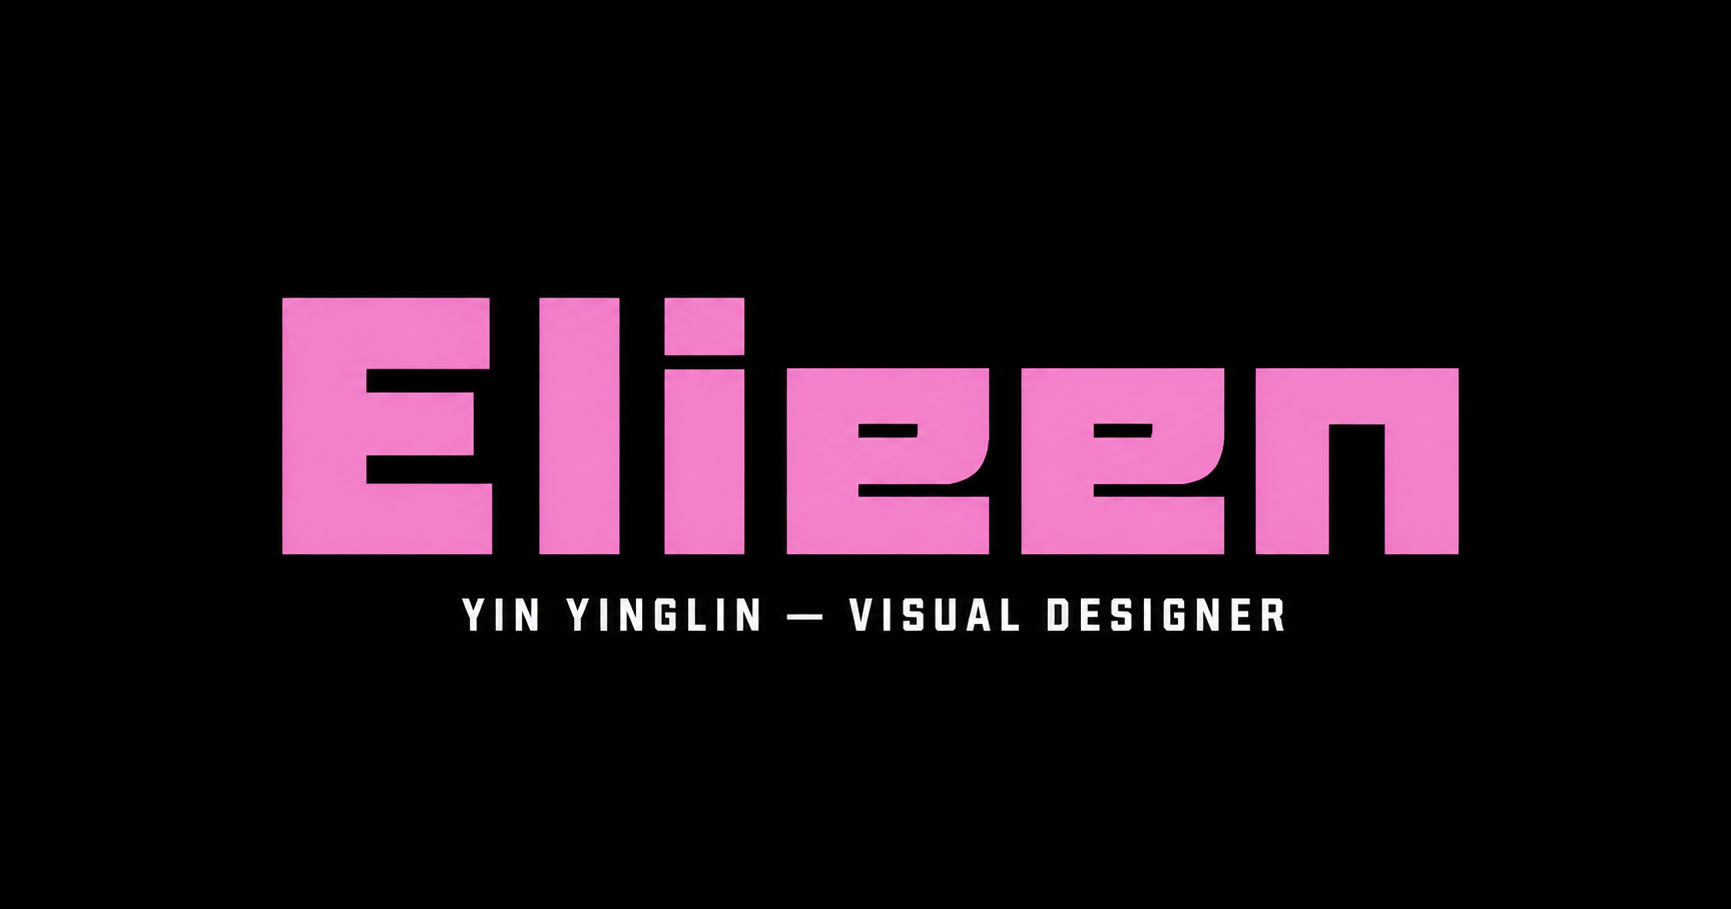
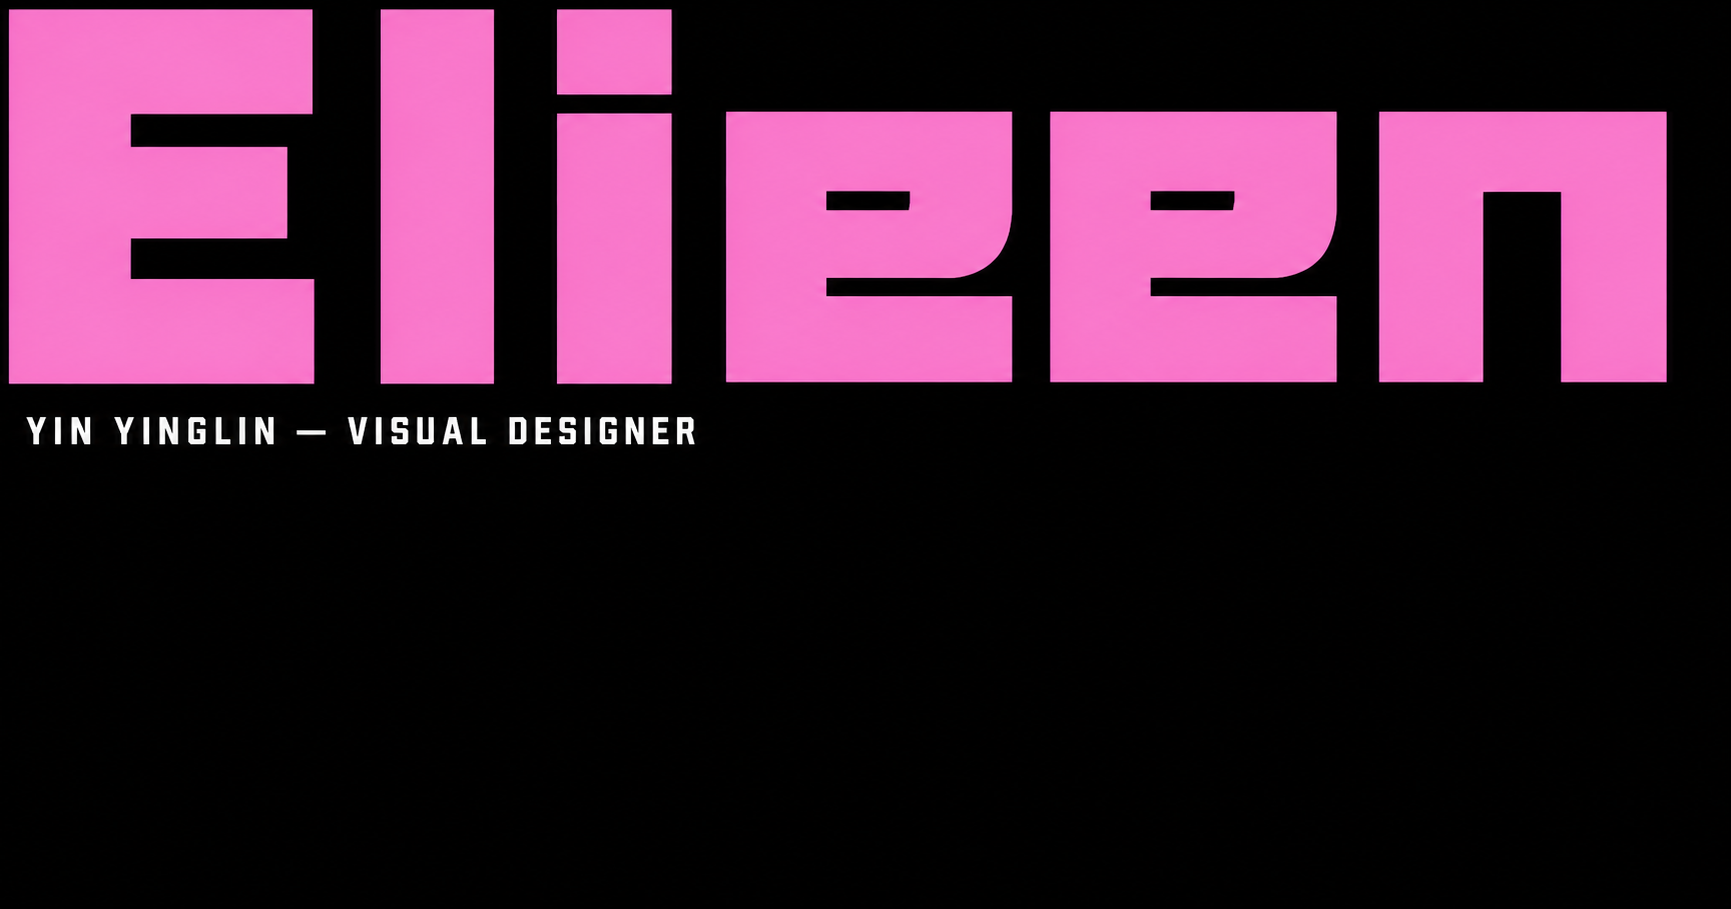
Refine asymmetric hero composition

diff --git a/app/globals.css b/app/globals.css
@@ -18,3 +18,8 @@ body{font-family:"Barlow Condensed","Arial Narrow",sans-serif}.hero h1,.menu-pan
 /* Square display face from the approved wordmark reference */
 .hero h1,.menu-panel a,.work-header h2,footer h2,.manifesto-copy,.project-info h3,.service-list h3,.seal span,.art-word{font-family:"Russo One",Arial,sans-serif;font-weight:400}
 .hero h1{letter-spacing:-.055em}.menu-panel a,.work-header h2,footer h2,.manifesto-copy,.service-list h3{letter-spacing:-.035em}.project-info h3{letter-spacing:-.015em}.seal span{font-size:36px;line-height:1;color:var(--pink)}
+
+/* Asymmetric hero placement: preserve structure, restore tension */
+.hero h1{margin:5vh 0 12px;font-size:clamp(108px,19vw,286px);max-width:none;justify-content:flex-start;gap:.005em;align-self:stretch}
+.hero .intro{margin-top:20px}.hero .scroll-hint{margin-top:auto}
+@media(max-width:760px){.hero h1{margin:7vh 0 18px;font-size:23vw}.hero .intro{margin-top:16px}}
